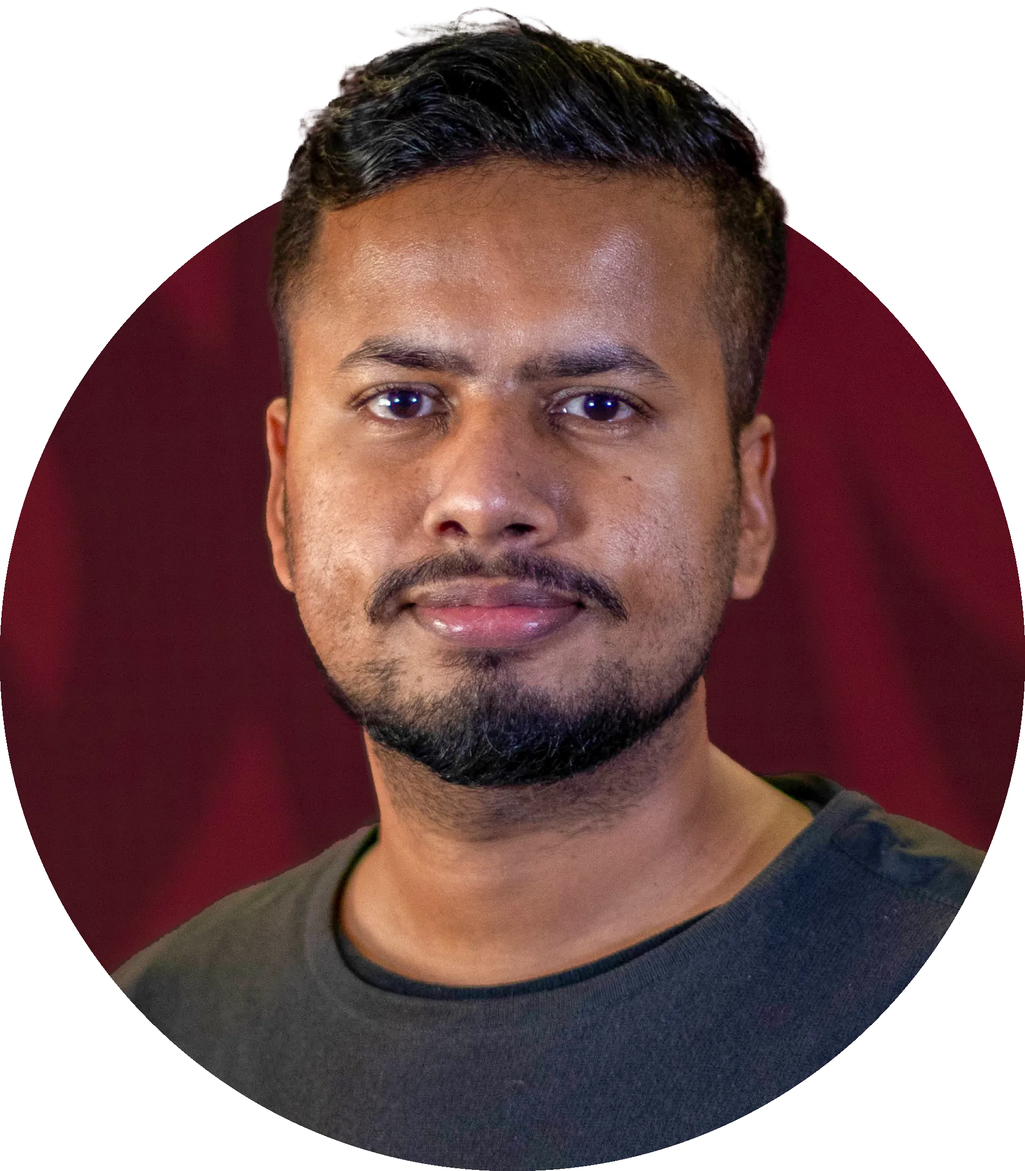
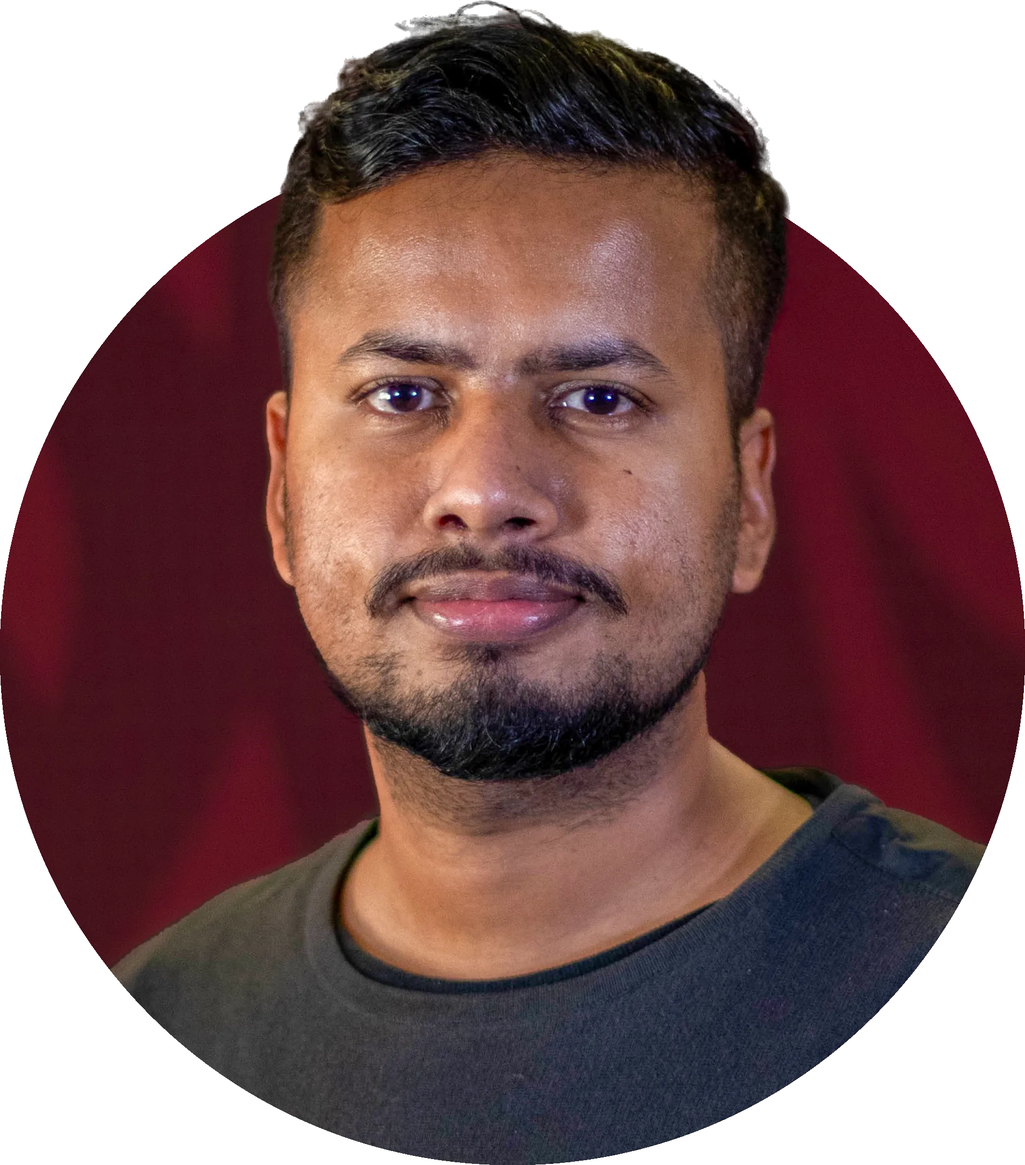
Remove white halo from headshot hair edges

diff --git a/docs/about/index.html b/docs/about/index.html
@@ -23,7 +23,7 @@
 </header>
 <main>
 <section class="about">
-  <div class="about-photo reveal"><img class="" src="../assets/img/about/headshot-1200.webp" srcset="../assets/img/about/headshot-1200.webp 1200w, ../assets/img/about/headshot-2400.webp 2400w" sizes="(min-width: 900px) 30vw, 60vw" width="1908" height="2179" alt="Md. Rakib Hasan" fetchpriority="high" decoding="async"></div>
+  <div class="about-photo reveal"><img class="" src="../assets/img/about/headshot-1200.webp" srcset="../assets/img/about/headshot-1200.webp 1200w, ../assets/img/about/headshot-2400.webp 2400w" sizes="(min-width: 900px) 30vw, 60vw" width="1908" height="2167" alt="Md. Rakib Hasan" fetchpriority="high" decoding="async"></div>
   <div class="about-text">
     <p class="eyebrow">About</p>
     <h1>Md. Rakib Hasan</h1>

diff --git a/tools/prepare_images.py b/tools/prepare_images.py
@@ -6,8 +6,9 @@ Re-running skips images that already exist.
 """
 import json
 import os
+import numpy as np
 import pymupdf
-from PIL import Image
+from PIL import Image, ImageFilter
 
 Image.MAX_IMAGE_PIXELS = None
 
@@ -83,6 +84,31 @@ IMAGES = {
 }
 
 
+def decontaminate(im, radius=12):
+    """Remove the white halo on cut-out edges (e.g. hair).
+
+    Semi-transparent edge pixels still carry the old white background color.
+    Replace their color with the average of nearby fully opaque pixels.
+    """
+    rgba = np.asarray(im, dtype=np.float32)
+    alpha = rgba[..., 3]
+    solid = (alpha >= 250).astype(np.float32)
+
+    def blur(channel):  # channel values 0-255; PIL blurs only 8-bit images
+        img = Image.fromarray(np.clip(channel, 0, 255).astype(np.uint8), "L")
+        return np.asarray(img.filter(ImageFilter.GaussianBlur(radius)), dtype=np.float32)
+
+    weight = blur(solid * 255) / 255 + 1e-4
+    out = rgba.copy()
+    edge = (alpha > 0) & (alpha < 250)
+    for c in range(3):
+        spread = blur(rgba[..., c] * solid) / weight
+        out[..., c][edge] = spread[edge]
+    # thin, faint fringe pixels add haze; fade them out
+    out[..., 3] = np.where(alpha < 40, 0, alpha)
+    return Image.fromarray(np.clip(out, 0, 255).astype(np.uint8), "RGBA")
+
+
 def load(src, doc):
     if src.startswith("pdf:"):
         page = doc[int(src[4:]) - 1]
@@ -101,6 +127,7 @@ def load(src, doc):
     if im.mode in ("RGBA", "LA", "P"):
         im = im.convert("RGBA")
         if src in CROP_TO_CONTENT:
+            im = decontaminate(im)
             return im.crop(im.split()[-1].getbbox())  # keep transparency, no white fill
         bg = Image.new("RGB", im.size, "white")
         bg.paste(im, mask=im.split()[-1])
